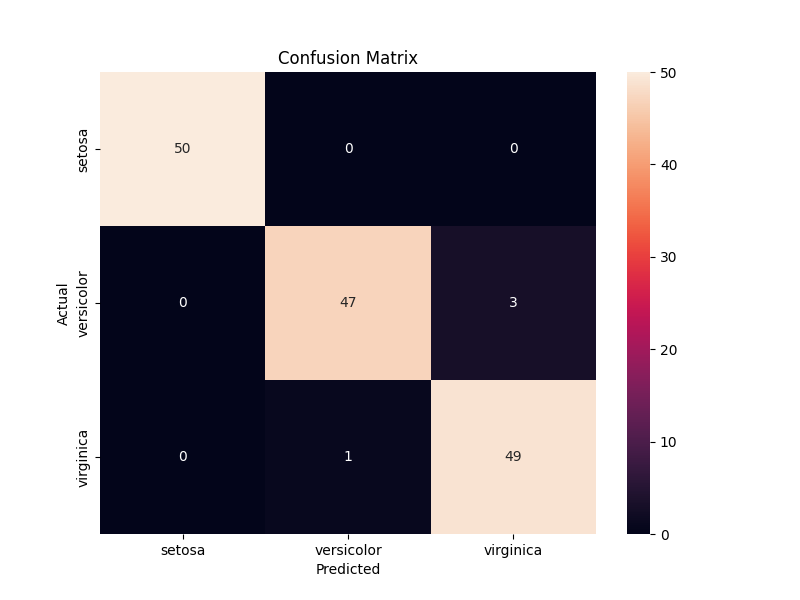
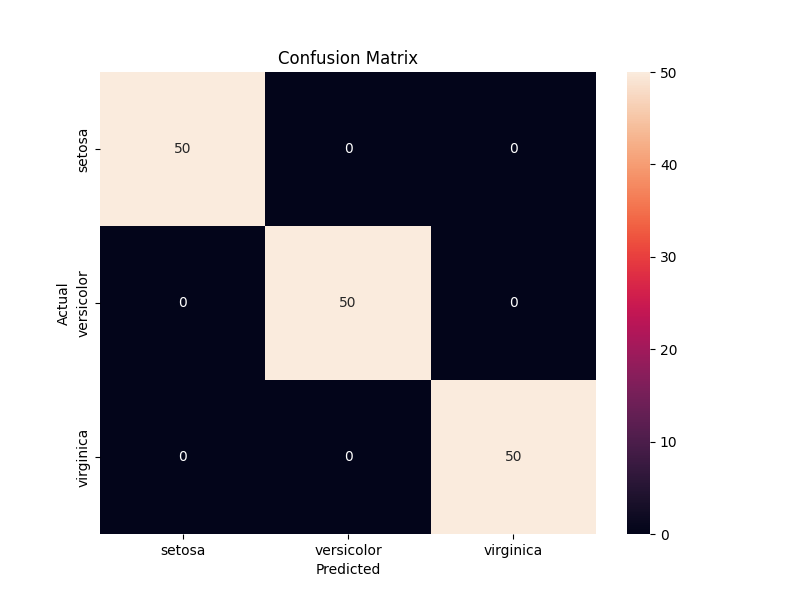
ran random-forest on data

Changed region(s): [[0.3125, 0.36, 0.5625, 0.66], [0.625, 0.75, 0.6562, 0.78], [0.625, 0.48, 0.6562, 0.51]]

diff --git a/train.py b/train.py
@@ -1,5 +1,5 @@
 import pandas as pd
-from sklearn.linear_model import LogisticRegression
+from sklearn.ensemble import RandomForestClassifier
 from sklearn.metrics import accuracy_score, confusion_matrix
 import json
 import seaborn as sns
@@ -9,7 +9,7 @@ df = pd.read_csv('data/data_raw.csv')
 X = df.iloc[:, :-1]
 y = df.iloc[:, -1]
 # Train model (ensure you change this for other branches)
-model = LogisticRegression(random_state=42)
+model = RandomForestClassifier(random_state=42)
 model.fit(X, y)
 preds = model.predict(X)
 # Save metrics
